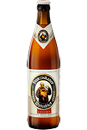
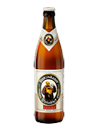
fridge on autocompletion cards

Changed region(s): [[0.2989, 0.0, 0.7126, 1.0]]

diff --git a/web/js/autocomplete.js b/web/js/autocomplete.js
@@ -53,8 +53,7 @@ var autocomplete = {
 									contentType: "application/x-www-form-urlencoded;charset=UTF-8",
 									data: {beerId : beerId},
 									success: function  (data) {
-										console.log('success');
-										// fridge.children('img').attr('src', '');
+										fridge.children('img').attr('src', '../img/frigovert.png');
 									}
 								})
 							});

diff --git a/web/css/home.css b/web/css/home.css
@@ -251,7 +251,12 @@ ul#autocomplete li div.fridge {
 	cursor: pointer;
 }
 ul#autocomplete li div.fridge img {
-	width: 30px;
+	height: 45px;
+    margin: 0;
+    position: relative;
+    right: 9px;
+    top: 7px;
+    width: 24px;
 }
 
 
